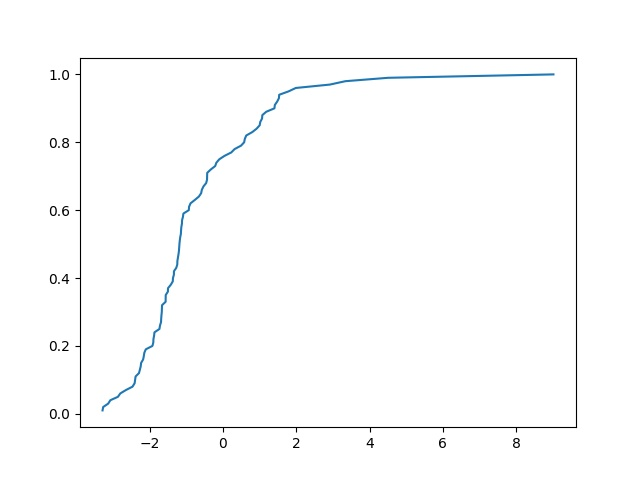
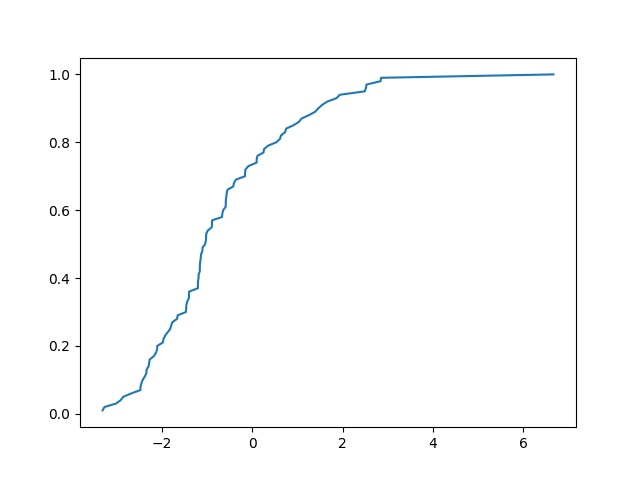
fix datarate and resource efficiency

diff --git a/src/hw6/main.py b/src/hw6/main.py
@@ -438,6 +438,7 @@ if __name__ == "__main__":
     innerCells = [cell for cell in env0.cells[:7]]
     dataPoints_1, dataPoints_2 = [], []
     resourceEffs_1, resourceEffs_2 = [], []
+    numberlist = []
     for idx in range(simIt):
         for cell in innerCells:
             cell.clear()
@@ -453,19 +454,22 @@ if __name__ == "__main__":
         dataPoints_1.append(poorestSINRs_1)
         dataPoints_2.append(min(poorestSINRs_2))
         resourceEff_1 = []; i = 0
-        msCount = 0
+        msnumber = []
         for cell in innerCells:
             shnCp = cell.MSs[0].shannonCapacity(cell, sinr=dataPoints_1[-1][i])
             resourceEff_1.append(
                 shnCp / cell.MSs[0].getBandwidth() * cell.msNum
             )
-            msCount += cell.msNum
+            msnumber.append(cell.msNum)
             i += 1
+        numberlist.append(msnumber)
+        msCount = sum(msnumber)
         resourceEffs_1.append(resourceEff_1)
         shnCp = innerCells[0].MSs[0].shannonCapacity(innerCells[0], sinr=dataPoints_2[-1])
         resourceEffs_2.append(
             shnCp / innerCells[0].MSs[0].getBandwidth() * msCount
         )
+
 
     dataPoints_1 = np.array(dataPoints_1)
     for idx in range(7):
@@ -481,7 +485,7 @@ if __name__ == "__main__":
         plt.close()
 
     ################################ 1-3 ################################
-    resourceEffs_1 = np.array(resourceEffs_1).sum(axis=0) / simIt
+    resourceEffs_1 = sum(np.array(resourceEffs_1).sum(axis=0) / simIt)
     aveDataRate_1 = []
     for idx in range(simIt):
         poorestSINRs_1 = dataPoints_1[idx]
@@ -490,8 +494,8 @@ if __name__ == "__main__":
             shnCp = innerCells[0].MSs[0].shannonCapacity(innerCells[0], sinr=poorestSINR_1)
             dataRates.append(shnCp)
         aveDataRate_1.append(dataRates)
-    aveDataRate_1 = np.array(aveDataRate_1)
-    aveDataRate_1 = aveDataRate_1.sum(axis=0) / simIt
+    aveDataRate_1 = np.array(aveDataRate_1) * np.array(numberlist)
+    aveDataRate_1 = sum(sum(i) for i in aveDataRate_1) / sum(sum(i) for i in numberlist)
     print(f"Average datarate of PTM: {aveDataRate_1}")
     print(f"Average resource efficiency of PTM: {resourceEffs_1}")
 
@@ -505,7 +509,7 @@ if __name__ == "__main__":
     plt.close()
 
     ################################ 2-2 ################################
-    resourceEffs_2 = np.array(resourceEffs_2) / simIt
+    resourceEffs_2 = sum(np.array(resourceEffs_2)) / simIt
     aveDataRate_2 = sum(
         [innerCells[0].MSs[0].shannonCapacity(innerCells[0], sinr=dataPoints_2[idx]) for idx in range(simIt)]
     ) / simIt
